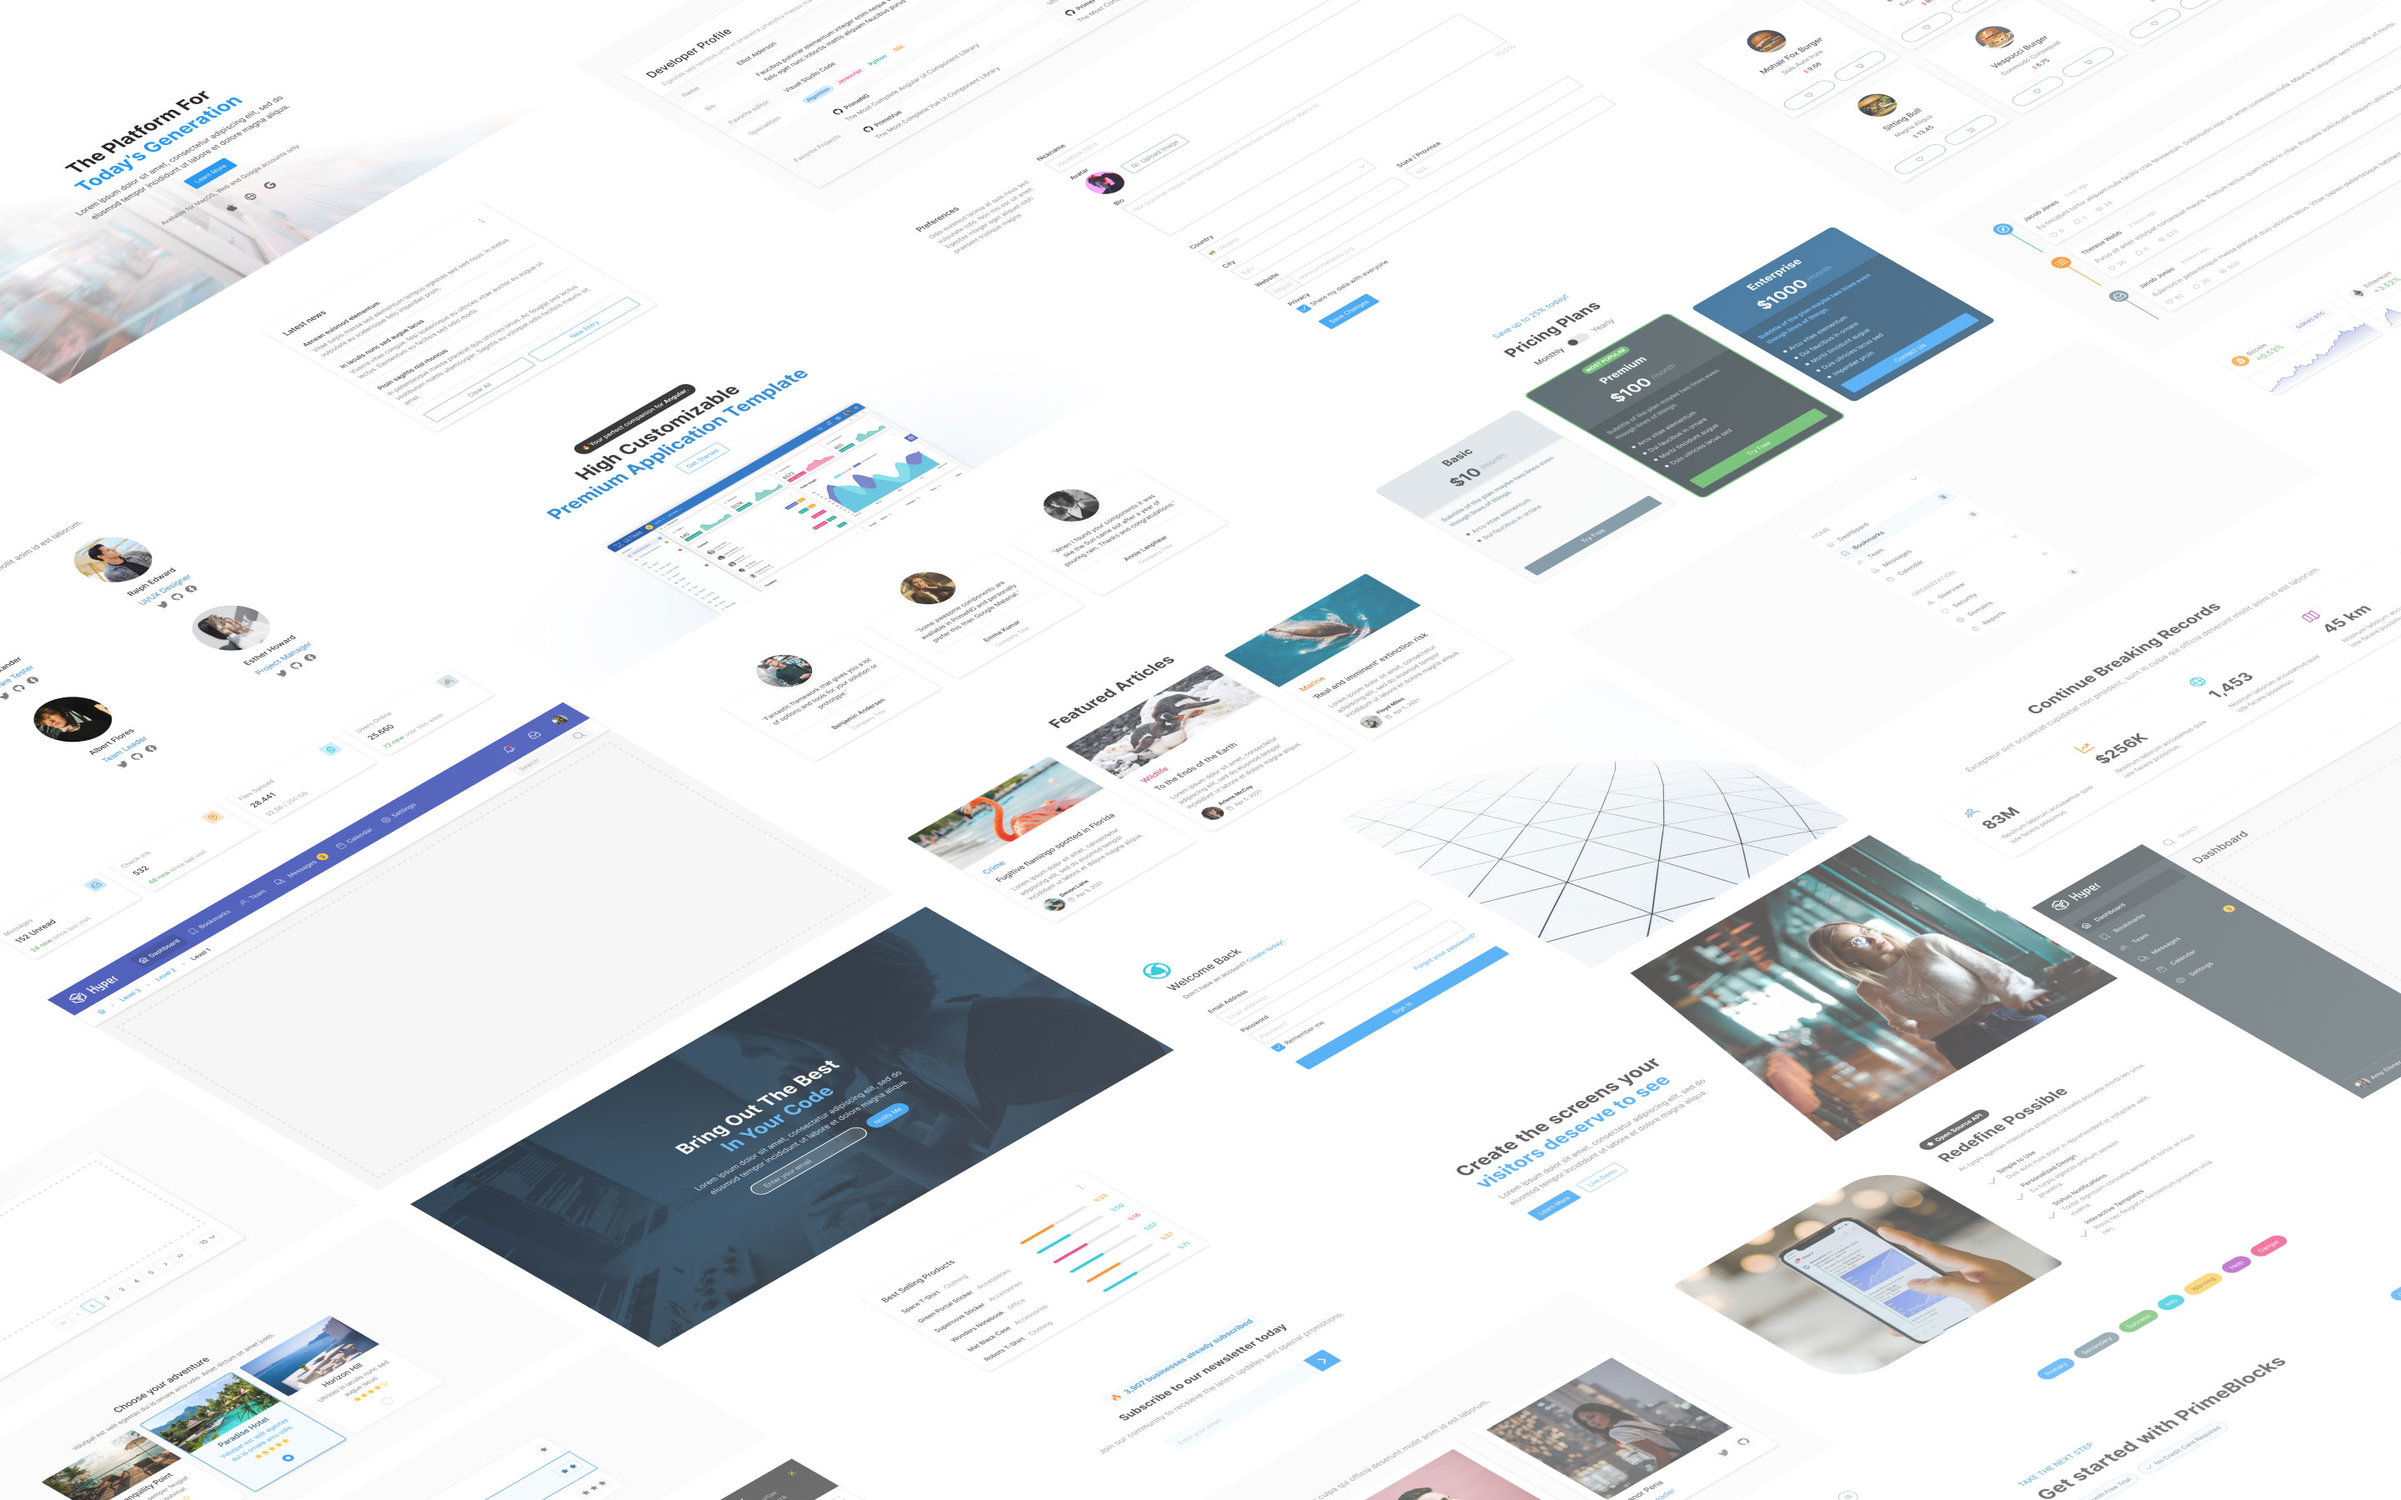
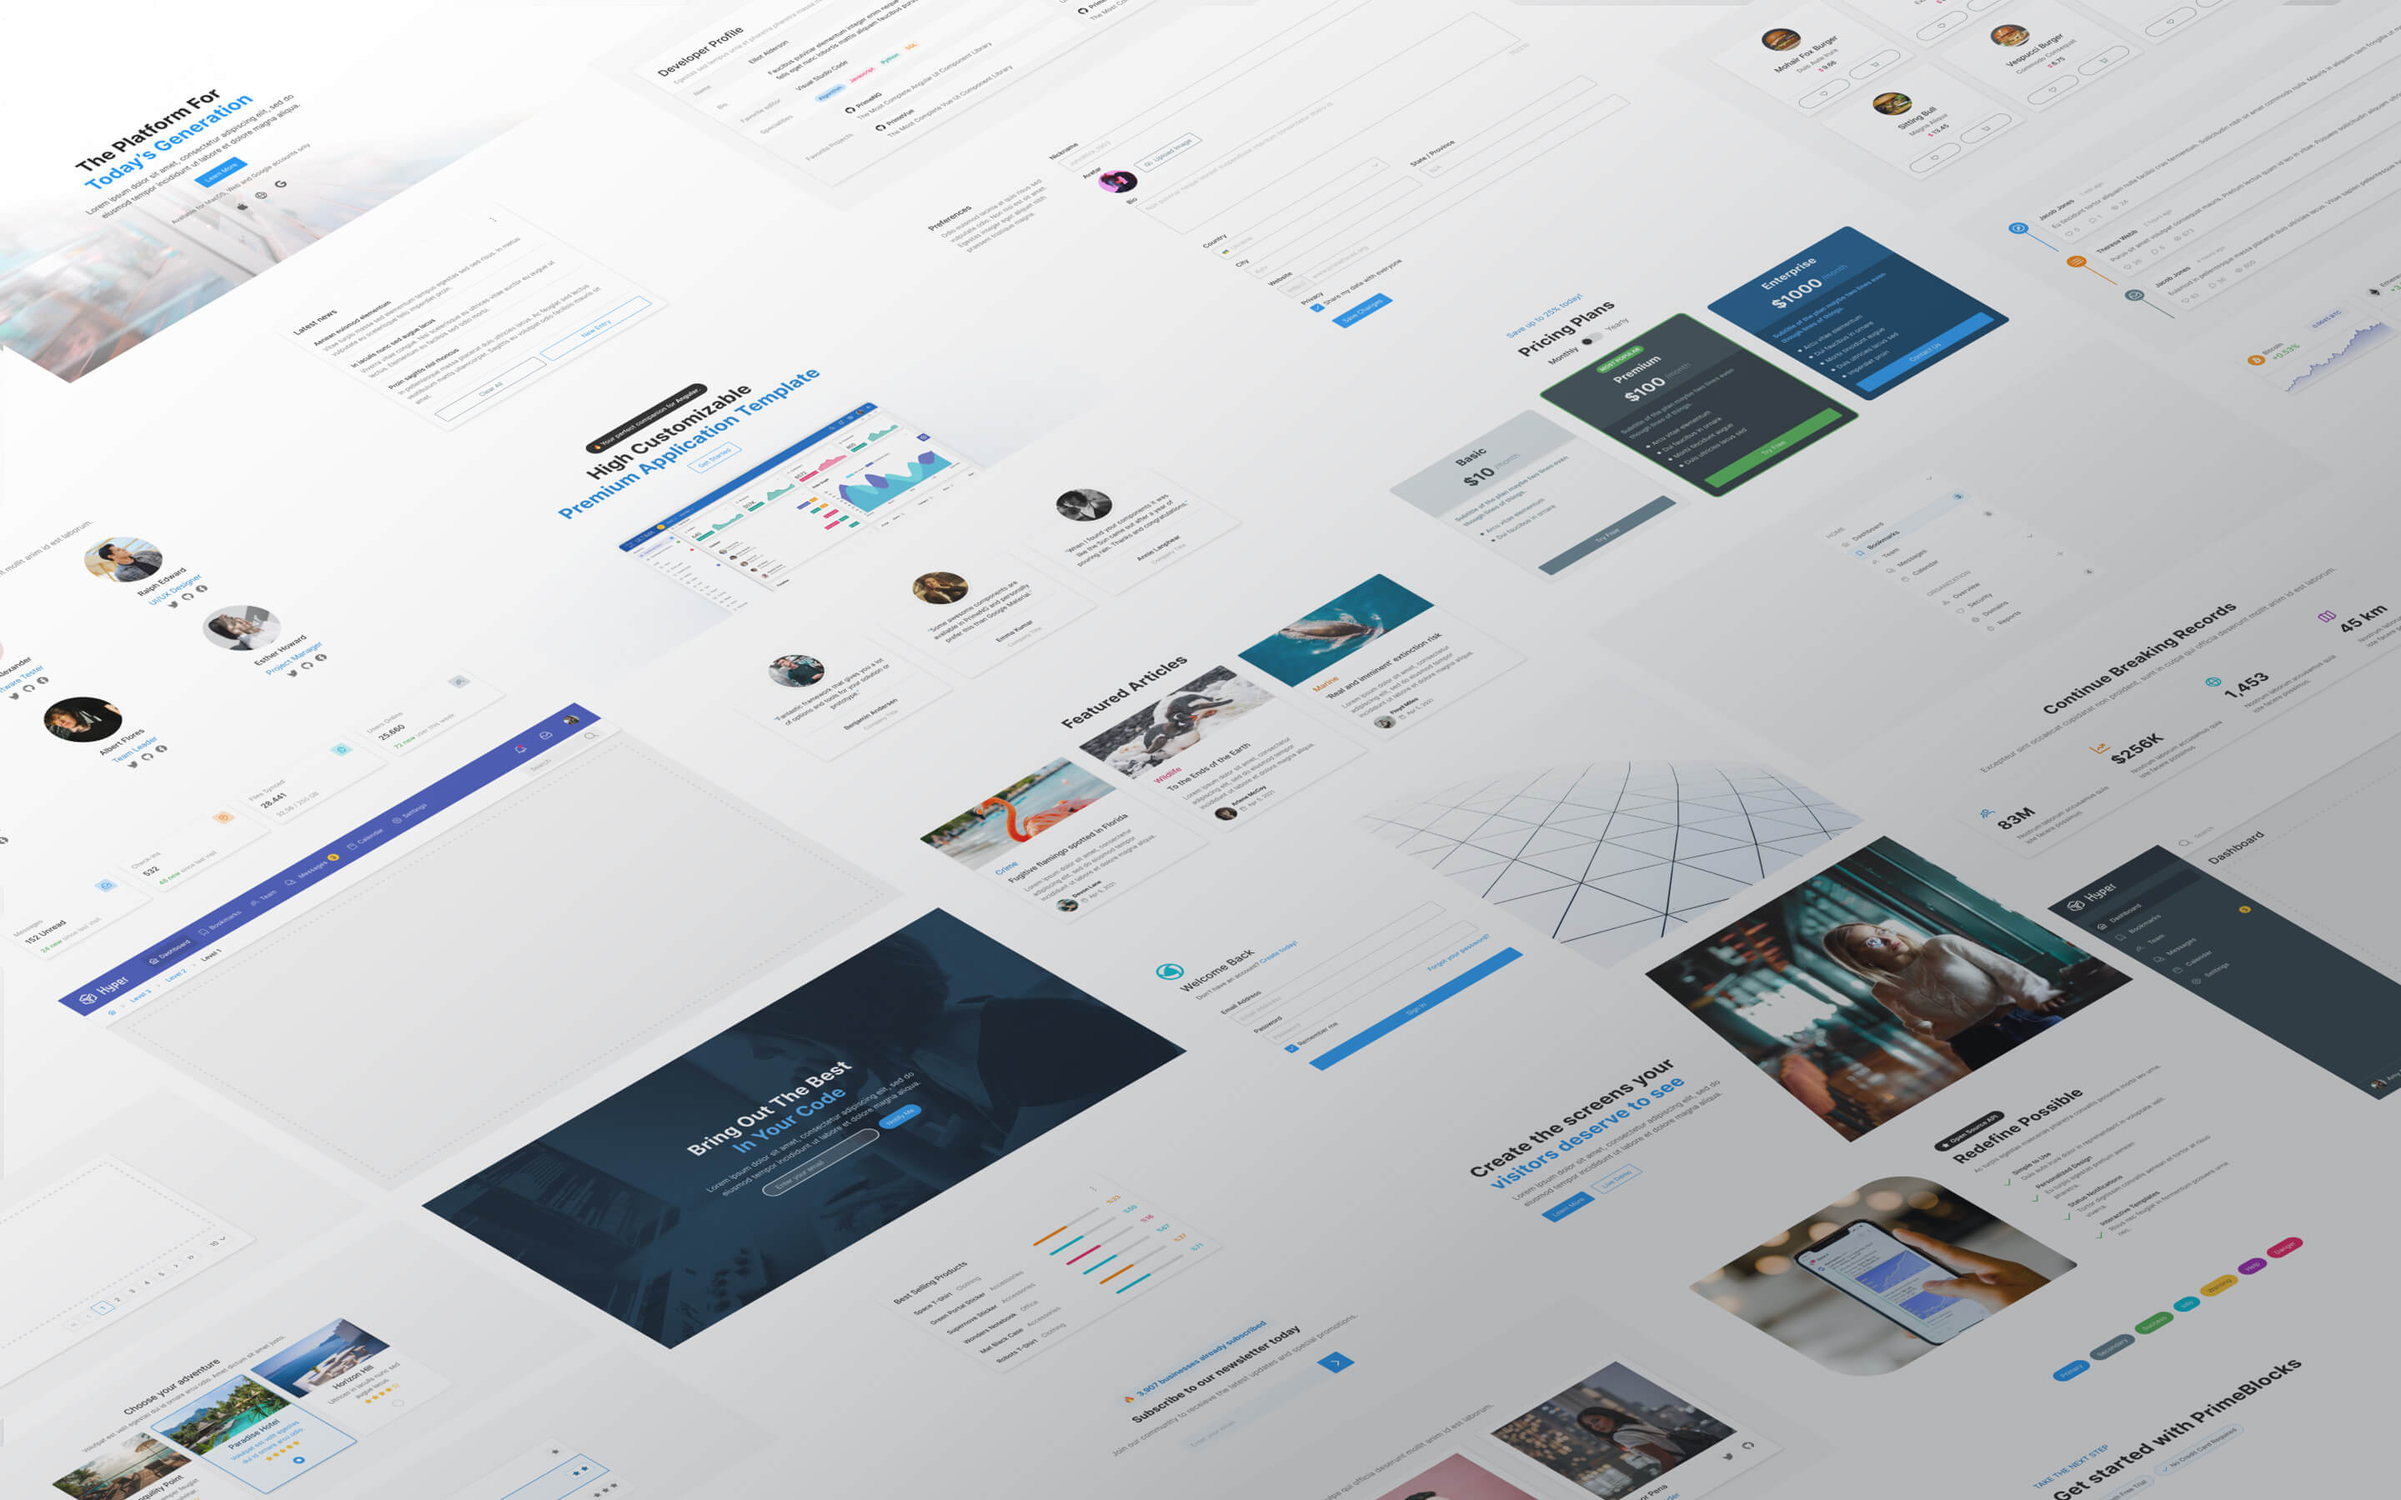
Improve hero text visibility

diff --git a/src/app/components/home/home.component.html b/src/app/components/home/home.component.html
@@ -2,7 +2,7 @@
     <div class="introduction-content shadow-2">
         <div class="introduction-title text-900">Angular UI Blocks</div>
         <div class="introduction-subtitle">Powered by PrimeNG</div>
-        <p>280 ready to use UI blocks to build spectacular applications in no time.</p>
+        <p><strong>280</strong> ready to use UI blocks to build spectacular applications in no time.</p>
         <div class="flex flex-nowrap flex-column align-items-center sm:flex-row sm:justify-content-center">
             <button pButton pRipple label="Browse All" (click)="viewBlocks(application)" class="w-full sm:w-auto font-bold p-3 mb-3 sm:mb-0 sm:mr-3"></button>
             <button pButton pRipple label="Free Blocks" class="w-full sm:w-auto p-button-outlined font-bold p-3" [routerLink]="['/free']"></button>

diff --git a/src/assets/css/app/_home.scss b/src/assets/css/app/_home.scss
@@ -11,7 +11,7 @@
     .introduction-content {
         padding: 4rem;
         border-radius: 8px;
-        background-color: rgba(255,255,255,.8);
+        background-color: rgba(255,255,255,.9);
         text-align: center;
 
         .introduction-title {
